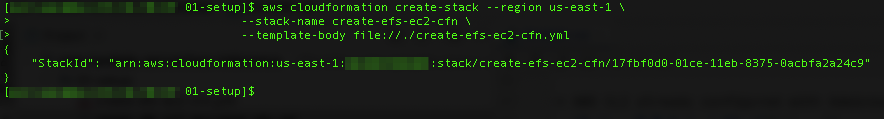
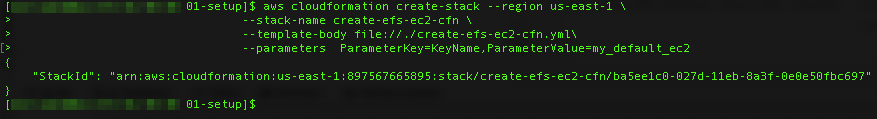
Fixed issues with KeyPair

diff --git a/README.md b/README.md
@@ -34,13 +34,19 @@ Important: this application uses various AWS services and there are costs associ
 1. Clone the repo onto your local development machine using `git clone`.
 
 ## Setup
+**Note that the CloudFormation stack will create all the resources in us-east-1 (N. Virginia)**. 
 
-To create a VPC, subnets, EFS file system, and EC2 launched in the VPC, use the `create-efs-ec2-cfn.yml` in the `01-setup` directory. To deploy this template, run in a terminal:
+To create a VPC, subnets, EFS file system, and EC2 launched in the VPC, use the `create-efs-ec2-cfn.yml` in the `01-setup` directory. 
+
+You will have to replace `ParameterValue` with a Key pair name in your AWS account.
+
+To deploy this template, run in a terminal:
 
 ```
 aws cloudformation create-stack --region us-east-1 \
                                 --stack-name create-efs-ec2-cfn \
-                                --template-body file://./create-efs-ec2-cfn.yml
+                                --template-body file://./create-efs-ec2-cfn.yml\
+                                --parameters  ParameterKey=KeyName,ParameterValue=my_default_ec2
 ```
 Note that the `template-body` parameter must include the `file://` prefix when run locally.
 
